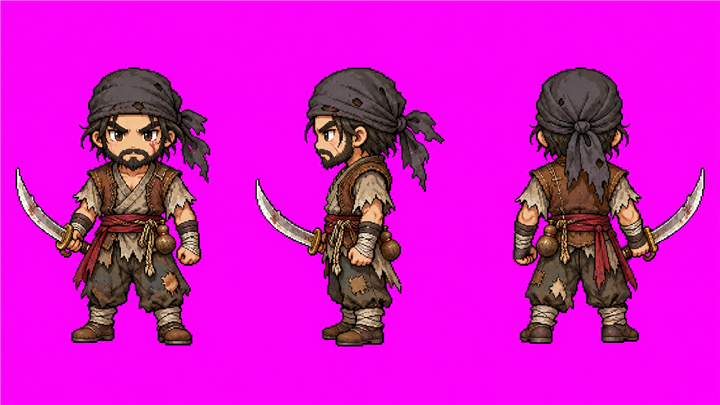
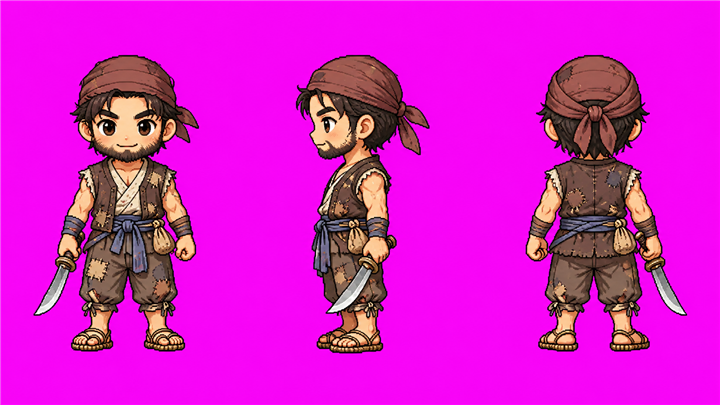
인물 화풍·키 맞추기(호각·도적 다시 그림, 모자·창 든 인물 키 보정), 새 놀이: 광대 놀이판 장단, 오방 깃발, 옷깃 실밥 뜯기

Changed region(s): [[0.0, 0.1185, 0.3056, 0.8889], [0.7028, 0.1185, 0.9778, 0.8889], [0.3361, 0.1185, 0.6111, 0.8889]]

diff --git a/index.html b/index.html
@@ -575,7 +575,7 @@ function sprite(lookKey,dir,f,blink){
 /* ═════════ 그림 아바타 (앞·옆·뒤 3방향 시트) ═════════ */
 const AVA_OF={pkid:"a_pkid",pwander:"a_pwander",phallim:"a_phallim",pgen:"a_pgen",gp:"a_gp",gpnun:"a_gpnun",yang:"a_yang",yangnun:"a_yangnun",nun:"a_nun",oldnun:"a_oldnun",monk:"a_monk",jsr:"a_jsr",lee:"a_lee",ho:"a_ho",gun:"a_gun",jaran:"a_jaran",
   wang:"a_wang",buyong:"a_buyong",won:"a_won",hwang:"a_hwang",yu:"a_yu",nan:"a_nan",clown:"a_clown",bandit:"a_bandit",emperor:"a_emperor",guard:"a_guard",sar:"a_guard",villager:"a_villager",woman:"a_woman2",maid:"a_maid",sage:"a_sage",official:"a_teacher",foe:"a_hogak",kid2:"a_dongja"};
-const AVA_H={a_pkid:31,a_gun:31,a_oldnun:36,a_dongja:29,a_sage:39};
+const AVA_H={a_pkid:31,a_gun:31,a_oldnun:36,a_dongja:29,a_sage:39,a_hogak:42,a_monk:48,a_nun:47,a_teacher:42,a_lee:43,a_wang:43,a_guard:43,a_jsr:42,a_emperor:42,a_phallim:42,a_pgen:44,a_villager:43,a_clown:42};
 const AV={};
 function keyOut(a,W,H,bg){
   const near=i=>Math.abs(a[i]-bg[0])+Math.abs(a[i+1]-bg[1])+Math.abs(a[i+2]-bg[2]);
@@ -2376,6 +2376,117 @@ function fieldBattle(cfg){
 /* 적병 몇을 빈 칸에 세움 */
 function spawnFoes(n,cands,look,name){const out=[];for(const [x,y] of cands){if(out.length>=n)break;if(blocked(x,y,null)||(G.player.tx===x&&G.player.ty===y))continue;const e=npc("sol"+out.length+"_"+x,look||"hogak",name||"적병",x,y,"l",null,{fixed:1});G.map.npcs.push(e);out.push(e)}return out}
 
+/* ═════════ 음악에 맞춰 누르는 놀이 (여러 게임 공통, 2026-10-19) ═════════
+   장구 장단이 깔리고, 음표가 오른쪽에서 흘러와 붉은 판정선에 닿을 때 누르면 그 악기 소리가 난다.
+   높은 음은 위, 낮은 음은 아래에 그린다. 피리는 긴 음표를 누르고 있는 동안 소리가 이어진다(떼면 멈춤).
+   악기: piri(피리) · gayageum(가야금) · geomungo(거문고) · janggu(장구: 덩·쿵·덕) · kkwaeng(꽹과리)
+   musicPlay({eb,title,desc,inst,bpm,base,scale,song:[[박,길이(박),음 번호]…],btn,end:[잘함,보통,못함]})
+   엔진의 LITE(있으면)·UI·setBodyTalking·esc·AU·auInit·auOut·noiseSrc·gDrum 을 쓴다. 자동 진행기는 data-hot 이 붙은 [data-press] 를 누른다. */
+function muOpen(html){UI.modal=true;if(typeof setBodyTalking==="function")setBodyTalking(true);const v=document.createElement("div");v.className="veil";v.innerHTML=`<div class="sheet gm" style="text-align:center">${html}</div>`;document.getElementById("ui").appendChild(v);return v}
+function muClose(v){v.remove();UI.modal=false;UI.onKey=null;if(typeof setBodyTalking==="function")setBodyTalking(false)}
+function mgCanvas(html,w,h){const v=muOpen(html+`<canvas class="gmc" width="${w}" height="${h}" style="width:100%;max-width:${w*1.6}px;image-rendering:pixelated;border:2px solid var(--ink2);background:#cfe3ea;display:block;margin:10px auto"></canvas>`);return [v,v.querySelector("canvas.gmc")]}
+const MV={
+  piri(f,vel){const ac=AU.ctx,t=ac.currentTime+0.005;
+    const o=ac.createOscillator(),o2=ac.createOscillator(),g=ac.createGain(),bp=ac.createBiquadFilter(),lp=ac.createBiquadFilter(),l=ac.createOscillator(),lg=ac.createGain(),m2=ac.createGain();
+    o.type="square";o2.type="sawtooth";o.frequency.setValueAtTime(f*0.9,t);o.frequency.exponentialRampToValueAtTime(f,t+0.09);o2.frequency.setValueAtTime(f*0.9,t);o2.frequency.exponentialRampToValueAtTime(f*1.003,t+0.09);
+    l.frequency.value=5.8;lg.gain.setValueAtTime(0,t);lg.gain.linearRampToValueAtTime(f*0.022,t+0.45);l.connect(lg);lg.connect(o.frequency);lg.connect(o2.frequency);
+    bp.type="bandpass";bp.frequency.value=1250;bp.Q.value=1.8;lp.type="lowpass";lp.frequency.value=3400;m2.gain.value=0.5;o.connect(bp);o2.connect(m2);m2.connect(bp);bp.connect(lp);lp.connect(g);
+    g.gain.setValueAtTime(0.0001,t);g.gain.linearRampToValueAtTime(vel*1.25,t+0.04);g.gain.linearRampToValueAtTime(vel,t+0.14);auOut(g,true);
+    const n=noiseSrc(t,0.32),nf=ac.createBiquadFilter(),ng=ac.createGain();nf.type="bandpass";nf.Q.value=3;nf.frequency.setValueAtTime(700,t);nf.frequency.exponentialRampToValueAtTime(2800,t+0.22);
+    ng.gain.setValueAtTime(0.0001,t);ng.gain.linearRampToValueAtTime(vel*1.6,t+0.03);ng.gain.exponentialRampToValueAtTime(0.0008,t+0.3);n.connect(nf);nf.connect(ng);auOut(ng,true);
+    o.start(t);o2.start(t);l.start(t);let done=false;
+    return ()=>{if(done)return;done=true;const e=ac.currentTime;g.gain.cancelScheduledValues(e);g.gain.setValueAtTime(Math.max(0.0002,g.gain.value||vel),e);g.gain.exponentialRampToValueAtTime(0.0008,e+0.12);for(const x of [o,o2,l])x.stop(e+0.15)}},
+  pluckish(f,vel,dark){const ac=AU.ctx,t=ac.currentTime+0.005,dur=dark?1.6:1.1;
+    const o=ac.createOscillator(),o2=ac.createOscillator(),g=ac.createGain(),lp=ac.createBiquadFilter();o.type=dark?"sawtooth":"triangle";o2.type="sine";
+    o.frequency.setValueAtTime(f*(dark?1.03:1.01),t);o.frequency.exponentialRampToValueAtTime(f,t+0.06);o2.frequency.value=f*2;
+    if(dark){const l=ac.createOscillator(),lg=ac.createGain();l.frequency.value=4.5;lg.gain.setValueAtTime(0,t);lg.gain.linearRampToValueAtTime(f*0.025,t+0.4);l.connect(lg);lg.connect(o.frequency);l.start(t);l.stop(t+dur)}
+    lp.type="lowpass";lp.frequency.setValueAtTime(dark?1600:3600,t);lp.frequency.exponentialRampToValueAtTime(dark?300:900,t+dur*0.6);const g2=ac.createGain();g2.gain.value=0.25;o.connect(lp);o2.connect(g2);g2.connect(lp);lp.connect(g);
+    g.gain.setValueAtTime(0.0001,t);g.gain.exponentialRampToValueAtTime(vel*1.4,t+0.006);g.gain.exponentialRampToValueAtTime(0.0008,t+dur);auOut(g,true);
+    const n=noiseSrc(t,0.05),nf=ac.createBiquadFilter(),ng=ac.createGain();nf.type=dark?"lowpass":"highpass";nf.frequency.value=dark?500:2500;ng.gain.setValueAtTime(vel*(dark?1.2:0.6),t);ng.gain.exponentialRampToValueAtTime(0.0008,t+0.05);n.connect(nf);nf.connect(ng);auOut(ng,false);
+    o.start(t);o2.start(t);o.stop(t+dur+0.05);o2.stop(t+dur+0.05);return ()=>{}},
+  gayageum(f,vel){return MV.pluckish(f,vel,false)},
+  geomungo(f,vel){return MV.pluckish(f*0.5,vel,true)},
+  janggu(f,vel,d){const ac=AU.ctx,t=ac.currentTime+0.005;if(typeof gDrum==="function")gDrum(["덩","쿵","덕"][d%3],t,0.6);return ()=>{}},
+  kkwaeng(f,vel){const ac=AU.ctx,t=ac.currentTime+0.005,n=noiseSrc(t,0.2),bf=ac.createBiquadFilter(),g=ac.createGain();bf.type="bandpass";bf.frequency.value=5000;bf.Q.value=3;g.gain.setValueAtTime(0.0001,t);g.gain.exponentialRampToValueAtTime(vel*2,t+0.003);g.gain.exponentialRampToValueAtTime(0.0008,t+0.18);n.connect(bf);bf.connect(g);auOut(g,false);
+    const o=ac.createOscillator(),og=ac.createGain();o.type="square";o.frequency.value=2300+((f|0)%3)*120;og.gain.setValueAtTime(vel*0.5,t);og.gain.exponentialRampToValueAtTime(0.0008,t+0.16);o.connect(og);auOut(og,false);o.start(t);o.stop(t+0.2);return ()=>{}}
+};
+function musicPlay(o){if(typeof LITE==="function"&&LITE())return Promise.resolve();return new Promise(res=>{
+  if(typeof auInit==="function")auInit();const spb=60/o.bpm,lead=2.2,W=320,H=150,HX=64,SPD=110,inst=o.inst||"piri",sus=inst==="piri",perc=inst==="janggu"||inst==="kkwaeng";
+  const scale=o.scale||[0,2,5,7,9];
+  const notes=o.song.map(([b,len,d])=>({t:lead+b*spb,len:sus?len*spb:0.12,d,hit:0}));const last=notes[notes.length-1],end=last.t+Math.max(last.len,0.3)+1.2;
+  const fq=d=>o.base*Math.pow(2,(Math.floor(d/scale.length)*12+scale[d%scale.length])/12);
+  const tip2=sus?" 긴 음표는 끝까지 누르고 있어요.":"";
+  const [v,c]=mgCanvas(`<span class="eb">${esc(o.eb||"장단")}</span><h2>${esc(o.title)}</h2><p class="note">${esc(o.desc)} 음표가 붉은 줄에 닿을 때 누르세요.${tip2} (Space · E · 단추)</p>`,W,H);
+  v.firstElementChild.insertAdjacentHTML("beforeend",`<div class="row"><button class="btn pri pressb" data-press style="touch-action:none">${esc(o.btn||"누르기")}</button></div><div class="st" id="muSt">&nbsp;</div>`);
+  const g=c.getContext("2d"),st=v.querySelector("#muSt"),btn=v.querySelector("[data-press]");let t0=performance.now(),alive=true,cur=null,stop=null,pop=null,beat=-9,good=0;
+  const now=()=>(performance.now()-t0)/1000,ac=()=>typeof AU!=="undefined"&&AU.ctx&&AU.sfxOn;
+  const lanes=perc?3:6,yOf=d=>perc?[40,75,110][d%3]:H-28-(d%6)*17;
+  const draw=()=>{if(!alive)return;const t=now();
+    g.fillStyle="#efe6cf";g.fillRect(0,0,W,H);for(let i=0;i<lanes;i++){g.fillStyle=i%2?"#e7dcc0":"#efe6cf";g.fillRect(0,yOf(i)-(perc?16:8),W,perc?32:17)}
+    if(perc){g.fillStyle="#8a6a44";g.font="12px sans-serif";["덩","쿵","덕"].forEach((s,i)=>g.fillText(s,6,yOf(i)+4))}
+    g.fillStyle="rgba(180,40,30,.85)";g.fillRect(HX-1,0,3,H);
+    const bt=Math.floor((t-lead)/spb);if(bt>beat&&!o.noBeat&&ac()){beat=bt;if(typeof gDrum==="function")gDrum(((bt%4)+4)%4===0?"덩":"덕",AU.ctx.currentTime+0.01,((bt%4)+4)%4===0?0.32:0.14)}
+    for(const n of notes){const x=HX+(n.t-t)*SPD,w=Math.max(10,n.len*SPD-6),y=yOf(n.d);if(x+w<-10||x>W+10)continue;
+      g.fillStyle=n.hit===2||n.hit===1?"#9ac48a":n.hit===-1?"#c9b9a9":inst==="geomungo"?"#5a3b22":inst==="kkwaeng"?"#b8902a":"#2f4a6d";g.beginPath();g.ellipse(x+5,y,perc?9:6,perc?9:6,0,0,7);g.fill();if(sus&&n.len>spb*1.1)g.fillRect(x+5,y-3,w-5,6)}
+    if(pop&&t-pop.t<0.6){g.globalAlpha=1-(t-pop.t)/0.6;g.fillStyle=pop.c;g.font="bold 18px sans-serif";g.fillText(pop.s,HX+10,24-(t-pop.t)*20);g.globalAlpha=1}
+    for(const n of notes)if(!n.hit&&t>n.t+0.22){n.hit=-1;pop={s:"놓침",c:"#8a6a44",t}}
+    if(cur&&t>=cur.t+cur.len){if(stop)stop();stop=null;cur.hit=2;cur=null}
+    const nx=notes.find(n=>!n.hit);v.dataset.hot=nx&&Math.abs(nx.t-t)<0.06?"1":"";
+    if(t>end){alive=false;const E=o.end||["가락이 흥겹게 이어진다","가락이 이어진다","장단이 고르지 않지만, 가락은 이어진다"];st.textContent=good>=notes.length-1?E[0]:good>=notes.length/2?E[1]:E[2];if(stop)stop();setTimeout(()=>{muClose(v);res(good)},900);return}
+    requestAnimationFrame(draw)};requestAnimationFrame(draw);
+  const press=()=>{if(!alive||cur)return;const t=now(),n=notes.find(x=>!x.hit&&Math.abs(x.t-t)<0.2);
+    if(!n){if(ac()&&sus){const s=MV.piri(fq(0)*0.94,0.03);setTimeout(s,90)}pop={s:sus?"삐익":"어긋남",c:"#8a6a44",t};return}
+    const e=Math.abs(n.t-t);good++;if(ac())stop=MV[inst](fq(n.d),inst==="piri"?0.09:0.12,n.d);pop=e<0.08?{s:"좋다!",c:"#b53a2c",t}:{s:"그렇지",c:"#2f4a6d",t};
+    if(sus){n.hit=1;cur=n}else{n.hit=2;stop=null}};
+  const release=()=>{if(!cur)return;if(stop)stop();stop=null;cur.hit=2;cur=null};
+  btn.addEventListener("pointerdown",e=>{e.preventDefault();press()});btn.addEventListener("pointerup",e=>{e.preventDefault();release()});btn.addEventListener("pointerleave",release);
+  btn.addEventListener("click",e=>{if(e.detail===0){press();setTimeout(release,250)}});
+  const kd=e=>{if(["Space","KeyE","Enter"].includes(e.code)&&!e.repeat){e.preventDefault();press()}},ku=e=>{if(["Space","KeyE","Enter"].includes(e.code))release()};
+  addEventListener("keydown",kd,true);addEventListener("keyup",ku,true);const clean=setInterval(()=>{if(!alive){removeEventListener("keydown",kd,true);removeEventListener("keyup",ku,true);clearInterval(clean)}},400);
+  UI.onKey=()=>true})}
+
+/* ═════════ 장풍운전 덧붙인 놀이(교사 의견 2026-10-19 “게임 요소가 너무 하나”) ═════════
+   flagGame  오방 깃발: 북이 울리는 차례대로 다섯 방위 깃발을 따라 올린다 (풀이본 “장대에 올라 오방의 깃발을 움직여”)
+   seamGame  옷깃 실밥 뜯기: 손가락(마우스)으로 실밥을 그어 하나씩 끊는다 (풀이본 “옷깃을 뜯어 보니”)
+   실패해도 막히지 않는다. 자동 진행기는 [data-next] 단추를 누른다. */
+function jOpen(html){UI.modal=true;if(typeof setBodyTalking==="function")setBodyTalking(true);const v=document.createElement("div");v.className="veil";v.innerHTML=`<div class="sheet gm" style="text-align:center">${html}</div>`;document.getElementById("ui").appendChild(v);return v}
+function jClose(v){v.remove();UI.modal=false;UI.onKey=null;if(typeof setBodyTalking==="function")setBodyTalking(false)}
+function flagGame(){return new Promise(res=>{
+  const F=[["청","#2f6db5","동"],["적","#c0392b","남"],["황","#d4a017","가운데"],["백","#f4f1ea","서"],["흑","#2b2b33","북"]];
+  const v=jOpen(`<span class="eb">장대</span><h2>오방의 깃발을 움직여라</h2><p class="note">북이 울리는 차례대로 깃발이 번쩍여요. 다 울리고 나면 같은 차례로 깃발을 올리세요. 세 번 맞히면 군사가 움직여요.</p>
+    <div id="fgRow" style="display:flex;gap:8px;justify-content:center;flex-wrap:wrap;margin:14px 0">${F.map(([n,c,d],i)=>`<button class="btn" data-f="${i}" style="width:62px;height:86px;display:flex;flex-direction:column;align-items:center;justify-content:center;gap:4px;border:3px solid var(--ink2);background:#fff"><i style="display:block;width:34px;height:40px;background:${c};border:2px solid #1d1813;clip-path:polygon(0 0,100% 15%,100% 85%,0 100%)"></i><b style="font-size:13px">${n}</b><small style="font-size:10px;color:var(--muted)">${d}</small></button>`).join("")}</div>
+    <div class="st" id="fgSt">북소리를 들어라…</div>`);
+  const btns=[...v.querySelectorAll("[data-f]")],st=v.querySelector("#fgSt");let round=0,seq=[],pos=0,showing=true;const LEN=[3,4,5];
+  const lit=(i,on)=>{btns[i].style.background=on?"#fff3a0":"#fff";btns[i].style.transform=on?"translateY(-6px)":""};
+  const mark=()=>{btns.forEach(b=>b.removeAttribute("data-next"));if(!showing&&pos<seq.length)btns[seq[pos]].setAttribute("data-next","1")};
+  const show=async()=>{showing=true;mark();st.textContent="북소리를 들어라… (차례 "+(round+1)+"/3)";await sleep(500);
+    for(const i of seq){lit(i,true);if(typeof sfx==="function")sfx("drum");await sleep(520);lit(i,false);await sleep(180)}
+    showing=false;pos=0;st.textContent="이제 같은 차례로 깃발을 올려라 (0/"+seq.length+")";mark()};
+  const start=()=>{seq=Array.from({length:LEN[round]},()=>Math.floor(Math.random()*5));show()};
+  v.addEventListener("click",async e=>{const b=e.target.closest("[data-f]");if(!b||showing)return;const i=+b.dataset.f;lit(i,true);setTimeout(()=>lit(i,false),180);
+    if(i===seq[pos]){pos++;if(typeof sfx==="function")sfx("click");st.textContent="이제 같은 차례로 깃발을 올려라 ("+pos+"/"+seq.length+")";mark();
+      if(pos>=seq.length){if(typeof sfx==="function")sfx("correct");round++;if(round>=3){st.textContent="오방의 깃발이 일제히 움직인다!";showing=true;mark();setTimeout(()=>{jClose(v);res()},900)}else{st.textContent="좋다! 다음 북소리";showing=true;mark();setTimeout(start,700)}}}
+    else{if(typeof sfx==="function")sfx("wrong");st.textContent="깃발이 어긋났다. 북소리를 다시 들어라";showing=true;mark();setTimeout(show,800)}});
+  UI.onKey=()=>true;setTimeout(start,300)})}
+function seamGame(){return new Promise(res=>{const W=300,H=150,N=8;
+  const v=jOpen(`<span class="eb">낡은 옷</span><h2>옷깃의 실밥을 뜯어라</h2><p class="note">옷깃을 따라 실밥이 촘촘해요. 손가락(마우스)으로 실밥을 그어 하나씩 끊으세요. ‘한 땀 뜯기’ 단추로도 돼요.</p>
+    <canvas width="${W}" height="${H}" style="width:100%;max-width:480px;border:2px solid var(--ink2);touch-action:none;display:block;margin:10px auto"></canvas>
+    <div class="row"><button class="btn" data-next>한 땀 뜯기</button></div><div class="st" id="smSt">남은 실밥 ${N}</div>`);
+  const c=v.querySelector("canvas"),g=c.getContext("2d"),st=v.querySelector("#smSt");const S=Array.from({length:N},(_,i)=>({x:40+i*31,y:78+Math.sin(i*1.3)*4,cut:0}));let alive=true,last=null;
+  const draw=()=>{if(!alive)return;g.fillStyle="#7a6a52";g.fillRect(0,0,W,H);for(let y=0;y<H;y+=4){g.fillStyle=y%8?"#837359":"#75654c";g.fillRect(0,y,W,2)}
+    g.fillStyle="#6b5a42";g.beginPath();g.moveTo(10,50);g.lineTo(W-10,50);g.lineTo(W-30,106);g.lineTo(30,106);g.closePath();g.fill();
+    for(const s of S){if(s.cut){g.fillStyle="#d9c49c";g.fillRect(s.x-6,s.y-1,4,2);g.fillRect(s.x+3,s.y-1,4,2);continue}g.strokeStyle="#efe3c6";g.lineWidth=2;g.beginPath();g.moveTo(s.x-7,s.y-6);g.lineTo(s.x+7,s.y+6);g.moveTo(s.x+7,s.y-6);g.lineTo(s.x-7,s.y+6);g.stroke()}
+    if(S.every(s=>s.cut)){g.fillStyle="#c9a24f";g.fillRect(W/2-14,82,28,18);g.fillStyle="#1d1813";g.fillRect(W/2-14,82,28,2)}
+    requestAnimationFrame(draw)};draw();
+  const cutAt=(x,y)=>{for(const s of S)if(!s.cut&&Math.hypot(s.x-x,s.y-y)<11){s.cut=1;if(typeof sfx==="function")sfx("swish");upd()}};
+  const upd=()=>{const n=S.filter(s=>!s.cut).length;st.textContent=n?"남은 실밥 "+n:"옷깃이 벌어졌다. 안에 무언가 있다!";if(!n&&alive){alive=false;setTimeout(()=>{jClose(v);res()},1000)}};
+  const pt=e=>{const r=c.getBoundingClientRect();return [(e.clientX-r.left)*W/r.width,(e.clientY-r.top)*H/r.height]};
+  c.addEventListener("pointerdown",e=>{c.setPointerCapture(e.pointerId);last=pt(e);cutAt(...last)});
+  c.addEventListener("pointermove",e=>{if(!last)return;const p=pt(e);for(let k=0;k<=6;k++)cutAt(last[0]+(p[0]-last[0])*k/6,last[1]+(p[1]-last[1])*k/6);last=p});
+  c.addEventListener("pointerup",()=>last=null);
+  v.querySelector("[data-next]").addEventListener("click",()=>{const s=S.find(x=>!x.cut);if(s){s.cut=1;if(typeof sfx==="function")sfx("swish");upd()}});
+  UI.onKey=e=>{if(["Space","KeyE","Enter"].includes(e.code)){const s=S.find(x=>!x.cut);if(s){s.cut=1;upd()}}return true}})}
+
 /* ══════════════ 장풍운 편 ══════════════ */
 /* @숫자 는 현대어 풀이본(jang/mod.txt)의 그 줄을 글자 그대로 가져온다 (build.js 가 바꿔 넣음). 손으로 옮겨 적지 않는다. */
 /* S([[누구,글,이름,속마음]…]) : 풀이본 문장을 차례로 보여 줌. "n"은 서술. 함수가 끼어 있으면 그 자리에서 실행 */
@@ -2542,7 +2653,7 @@ CHS.pung[3]={mood:"pyong",
 async function p3Clown(){
   const F=G.f;if(F.join)return say("clown","어이, 새내기! 장단 놓치지 말게.");F.join=1;
   await S([["n","ᄒᆞ고 광ᄃᆡ 등더러 왈\u0002광대들에게 말했다."],["pwander","나도 노름ᄒᆞ더니 한가지로 다니고져 ᄒᆞ노라\u0002나도 재주를 부리던 사람이니 당신들과 함께 다니고 싶소."],["n","ᄒᆞ니 광ᄃᆡ 무리 허락ᄒᆞ고 노름을 시기니\u0002광대들은 허락하고 재주를 보여 달라고 하였다."]]);
-  await timing(0,{eb:"놀이판",title:"춤과 재주를 보여라",desc:"표시가 붉은 칸 안에 들어왔을 때 누르세요."});sfx("cheer");
+  await musicPlay({eb:"놀이판",title:"장단에 맞춰 춤과 재주를",desc:"광대들의 꽹과리 장단에 맞춰 재주를 부려 보세요.",inst:"kkwaeng",btn:"재주 부리기",bpm:110,base:440,song:[[0,1,0],[1,1,1],[2,1,2],[2.5,1,2],[3,1,0],[4,1,1],[5,1,0],[6,1,2],[6.5,1,2],[7,1,1],[8,1,0],[9,1,2],[10,1,1],[11,1,0],[12,1,0]],end:["구경꾼들이 환호한다","구경꾼들이 박수를 친다","엉성해도 구경꾼들이 웃는다"]});sfx("cheer");
   await S([["n","풍운이 춤추며 온갓 즛슬 ᄒᆞᆫᄃᆡ 광ᄃᆡ 무리 조히 녀겨 ᄃᆞ리고 다니며 잘 먹이니\u0002풍운이 춤을 추며 여러 가지 재주를 보이자 광대들이 마음에 들어 하여 함께 데리고 다니며 잘 먹였다."],["n","몸이 비록 쳔ᄒᆞᄂᆞ 구ᄎᆞᄒᆞ미 업더라.\u0002몸은 비록 천한 광대 무리에 섞였으나 굶주리거나 곤궁할 일은 없었다."],["n","이런고로 셔쥬 구계촌의 니ᄅᆞ니\u0002그렇게 다니다 서주 구계촌에 도착하였다."],["n","인ᄀᆡ 즐비ᄒᆞ고 공후거족이 만히 ᄉᆞᄂᆞᆫ지라.\u0002그곳에는 집들이 즐비하였고 높은 벼슬을 지낸 큰 집안이 많았다."],["n","그곳의셔 노름을 ᄇᆡ셜ᄒᆞ엿더니\u0002광대들이 그곳에서 놀이판을 벌였다."]]);
   setObj("누각에서 구경하던 재상이 부른다. 가 보자 (북동쪽 기와집)");
 }
@@ -2643,7 +2754,7 @@ async function p4Emp(){
 }
 async function p4Flags(){
   const F=G.f;if(!F.plan||F.flag)return NR("대원수의 오방 깃발이다.");F.flag=1;
-  await timing(0,{eb:"장대",title:"오방의 깃발을 움직여라",desc:"표시가 붉은 칸 안에 들어왔을 때 누르세요."});sfx("drum");sfx("boom");G.shake=4;
+  await flagGame();sfx("drum");sfx("boom");G.shake=4;
   await S([["n","원ᄉᆔ 장ᄃᆡ의 올ᄂᆞ 오방긔치ᄅᆞᆯ 두루니\u0002대원수가 지휘대에 올라 오방 기치를 휘두르며 지휘했다."],["n","젼후좌우 ᄃᆡ진이 일시의 응포ᄒᆞ고 크게 엄살ᄒᆞ니\u0002지휘에 맞춰 전후좌우의 대진이 일시에 대포를 쏘고 갑자기 습격하여 죽이자,"],["n","번달이 그 계교의 ᄲᆞ진 쥴 알고 급히 군ᄉᆞᄅᆞᆯ 물니더니\u0002번달이 대원수의 계교에 빠진 줄 알고 급히 군사를 물렸다."],["n","원ᄉᆔ ᄯᅩ 북을 울니고 긔ᄅᆞᆯ 둘너 젹병을 즛치니\u0002대원수가 또 북을 울리고 기를 휘둘러 적병을 마음대로 마구 짓이겼다."]]);
   const sols=spawnFoes(3,[[me().tx+3,13],[me().tx+4,14],[me().tx+3,15],[me().tx+5,12],[me().tx+4,12]],"foe","번국 군사");
   tip("적에게 다가가 E·Space(또는 擊 단추)로 치세요. 붉은 느낌표가 뜨면 곧 덤벼드니 비켜서세요.");
@@ -2934,7 +3045,7 @@ async function k2Cell(){
   await S([["n","일일은 쇼졔 협실노 드러가 실셩쳬읍ᄒᆞᆯ ᄉᆡ\u0002어느 날 경패가 방에서 크게 울고 있었다."],["n","계원이 문을 열고 드러가니 쇼졔 남ᄌᆞ의 옷슬 만지며 우다가 감초거ᄂᆞᆯ\u0002계원이 문을 열고 들어가 보니 경패가 남자의 낡은 옷을 만지며 울다가 급히 감추었다."],["n","계원이 문왈\u0002계원이 물었다."],["yangnun","그거시 무어시완ᄃᆡ 만지며 슬허ᄒᆞᄂᆞ뇨.\u0002그것이 무엇이기에 만지며 그토록 슬피 우느냐?","계원"],["n","쇼졔 그이지 못ᄒᆞ여 장ᄉᆡᆼ의 ᄉᆞ연을 니ᄅᆞ니\u0002경패는 더 이상 숨기지 못하고 풍운과의 사연을 이야기하였다."],["n","계원이 ᄌᆞ시보ᄆᆡ 풍운의 옷 갓거ᄂᆞᆯ\u0002계원이 옷을 자세히 보니 자신의 아들 풍운의 옷과 같았다."],["n","문득 놀ᄂᆞ 그 옷슬 가지고 쇼져로 더브러 나와 졔승을 ᄃᆡᄒᆞ여 왈\u0002깜짝 놀라 옷을 가지고 밖으로 나와 여러 승려 앞에서 경패에게 말했다."]]);await give(me(),g,"jacket");
   await S([["yangnun","셰상의 고이ᄒᆞᆫ 일도 닛도다. 이 옷시 ᄂᆡ ᄋᆞ들 풍운을 칠 셰의 지어 닙힌 옷시라. 비록 날가시ᄂᆞ 나의 슈품을 모르리오. 낭ᄌᆞ의 가군이 어ᄃᆡ 닛다 ᄒᆞ더뇨.\u0002세상에 참으로 기이한 일도 있구나. 이 옷은 내가 아들 풍운이 일곱 살 때 지어 입힌 옷이다. 비록 오래되고 낡았지만 내 손으로 만든 물건을 내가 어찌 모르겠느냐? 낭자의 남편은 어디에 있다고 하더냐?","계원"],["n","쇼졔왈\u0002경패가 대답하였다."],["gp","닛ᄂᆞᆫ 곳은 모로되 그 부친은 장시랑이라 ᄒᆞ더이다.\u0002지금 어디 있는지는 모르지만 그의 아버지가 장 시랑이라고 하였습니다."],["n","계원이 ᄃᆡ경왈\u0002계원이 크게 놀랐다."],["yangnun","이ᄂᆞᆫ 명ᄇᆡᆨ무의로다. 풍운이 칠셰의 장도ᄉᆞ의게 상을 뵌즉 여ᄎᆞ여ᄎᆞ ᄒᆞ기로 시랑이 친필노 ᄉᆡᆼ월일시ᄅᆞᆯ 젹어 금낭의 너허 옷 속의 너허더니 ᄯᅥ혀보라. 만일 이시면 낭ᄌᆞᄂᆞᆫ 나의 며ᄂᆞ리라\u0002그렇다면 의심할 것이 없구나. 풍운이 일곱 살 때 장 도사에게 관상을 보였는데 도사가 이러이러한 말을 하였다. 그래서 시랑이 직접 풍운의 생년월일시를 써 금낭에 넣고 옷깃 속에 감추었다. 옷을 뜯어 보아라. 그것이 있다면 낭자는 바로 내 며느리다.","계원"]]);
   await must("gpnun","계원이 옷을 뜯어 보라고 한다.",["남편이 준 증표이니 뜯을 수 없다고 한다.","옷깃을 뜯어 본다."],1,"풀이본에서는 옷깃을 뜯어 보아요. 그 속에 든 것이 두 사람의 사이를 밝혀 줘요.");
-  await timing(0,{eb:"낡은 옷",title:"옷깃의 실밥을 뜯어라",desc:"표시가 붉은 칸 안에 들어왔을 때 누르세요."});sfx("swish");await S([["n","ᄒᆞ고 ᄯᅥ혀본즉 과연 드러거ᄂᆞᆯ\u0002옷깃을 뜯어 보니 과연 금낭이 들어 있었다."]]);await getItem("pouch");meet("s_pouch");holdAdd(g,"pouch");F.found=1;g.name="양 부인";G.flash=0.6;sfx("heal");setMood("home");
+  await seamGame();sfx("swish");await S([["n","ᄒᆞ고 ᄯᅥ혀본즉 과연 드러거ᄂᆞᆯ\u0002옷깃을 뜯어 보니 과연 금낭이 들어 있었다."]]);await getItem("pouch");meet("s_pouch");holdAdd(g,"pouch");F.found=1;g.name="양 부인";G.flash=0.6;sfx("heal");setMood("home");
   await S([["n","게원이 낭ᄌᆞᄅᆞᆯ 안고 통곡왈\u0002계원은 경패를 끌어안고 통곡하였다."],["yangnun","풍운의 ᄉᆞᄉᆡᆼ을 몰나 쥬야 셜워ᄒᆞ더니 오날날 고식이 맛ᄂᆞ니 이ᄂᆞᆫ 하ᄂᆞᆯ이 ᄉᆞᆲ피시미라\u0002풍운이 살았는지 죽었는지 몰라 밤낮으로 슬퍼하였는데 오늘 며느리를 만났으니 이는 하늘께서 돌보신 것이다.","양 부인"],["n","ᄒᆞ고 이후로붓터 고식이 시랑부ᄌᆞ 맛ᄂᆞ기ᄅᆞᆯ 불젼의 츅원ᄒᆞ더라.\u0002그 뒤로 두 사람은 함께 불전에서 장 시랑 부자와 다시 만나기를 빌었다."]]);meet("yang");trait("token");
   tip("경패가 지닌 낡은 옷, 그 옷깃 속의 금낭이 시어머니와 며느리를 만나게 했어요. 풍운이 어릴 때 아버지가 감추어 둔 바로 그 금낭이에요.");
   await toNext("제2장 달아나 단원으로",["호씨가 경패를 호현에게 다시 시집보내려 한다.","따르는 척 내일로 미루고 아버지의 편지를 열어 본다.","자란과 함께 밤에 달아나고, 꿈에 아버지가 길을 일러 준다.","단원 승당에서 계원의 제자가 된다.","낡은 옷깃 속의 금낭으로 계원이 시어머니임을 안다."]);
